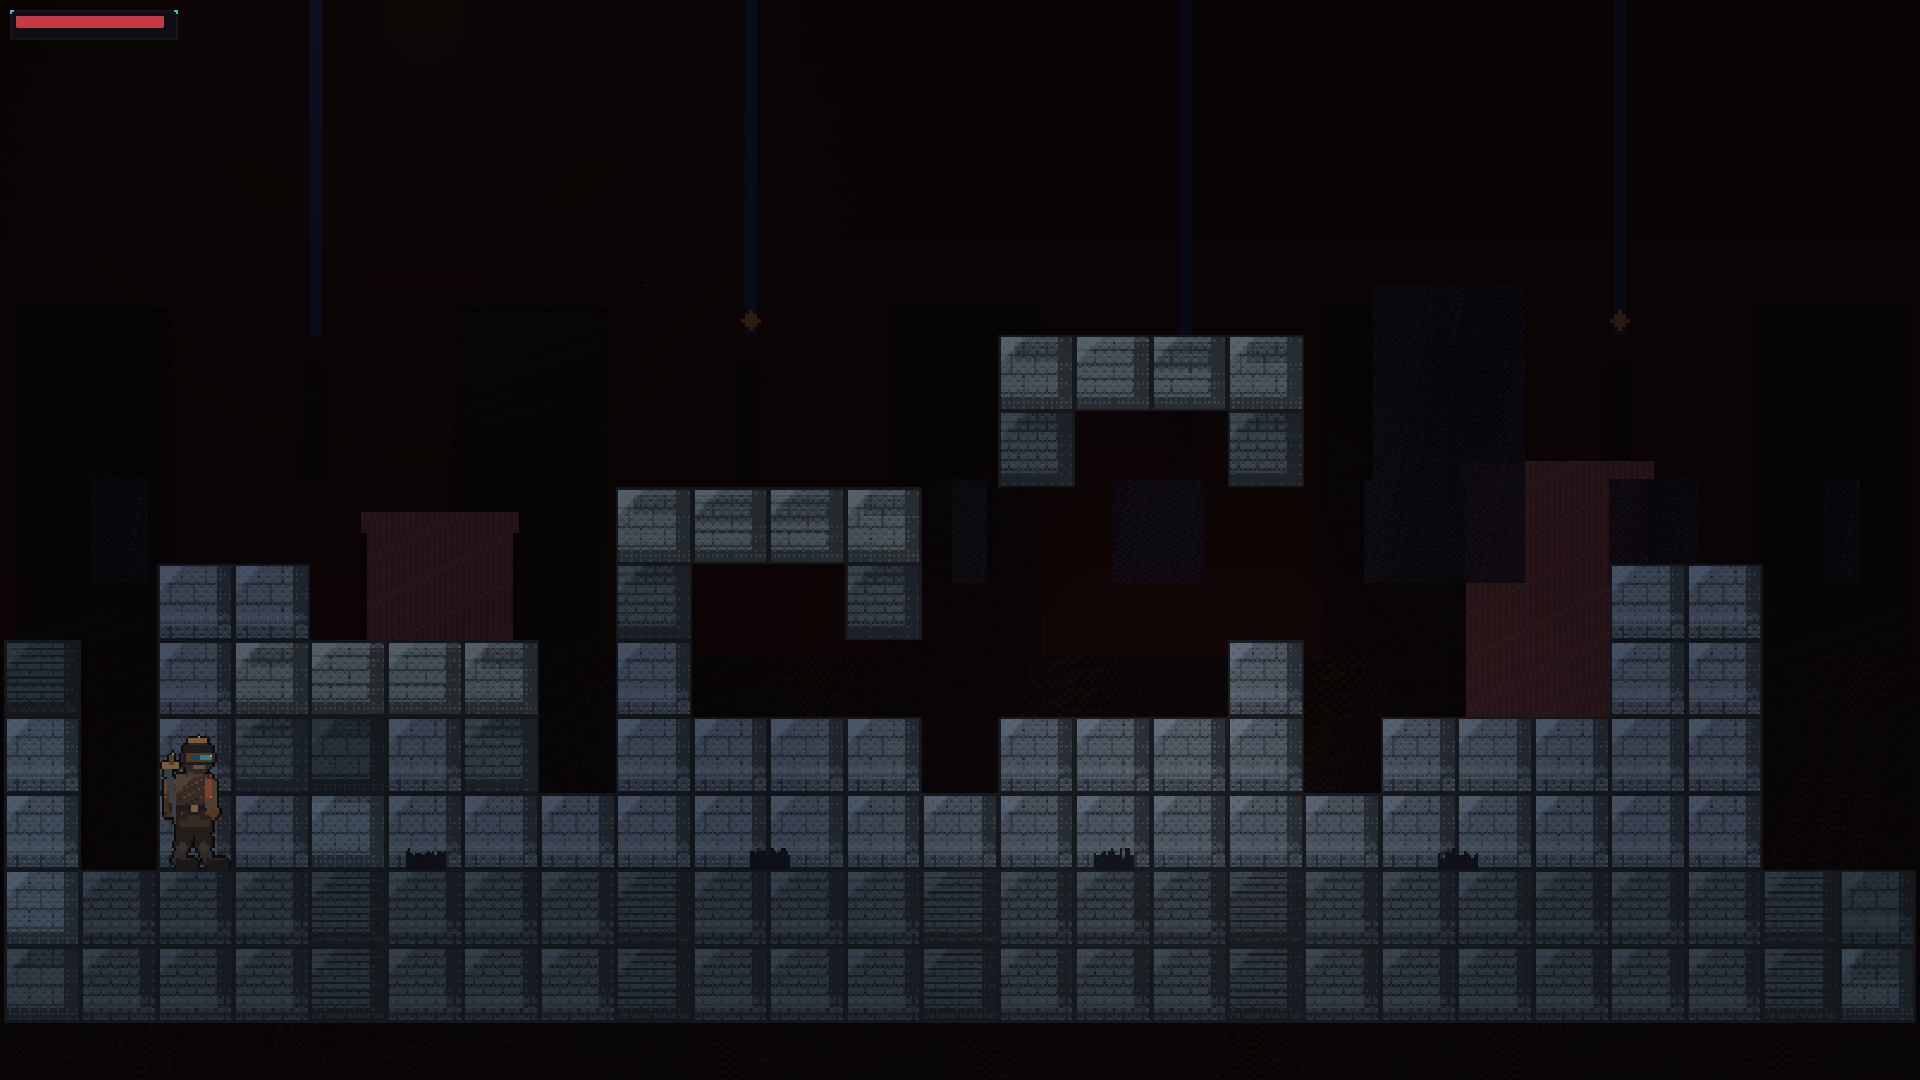
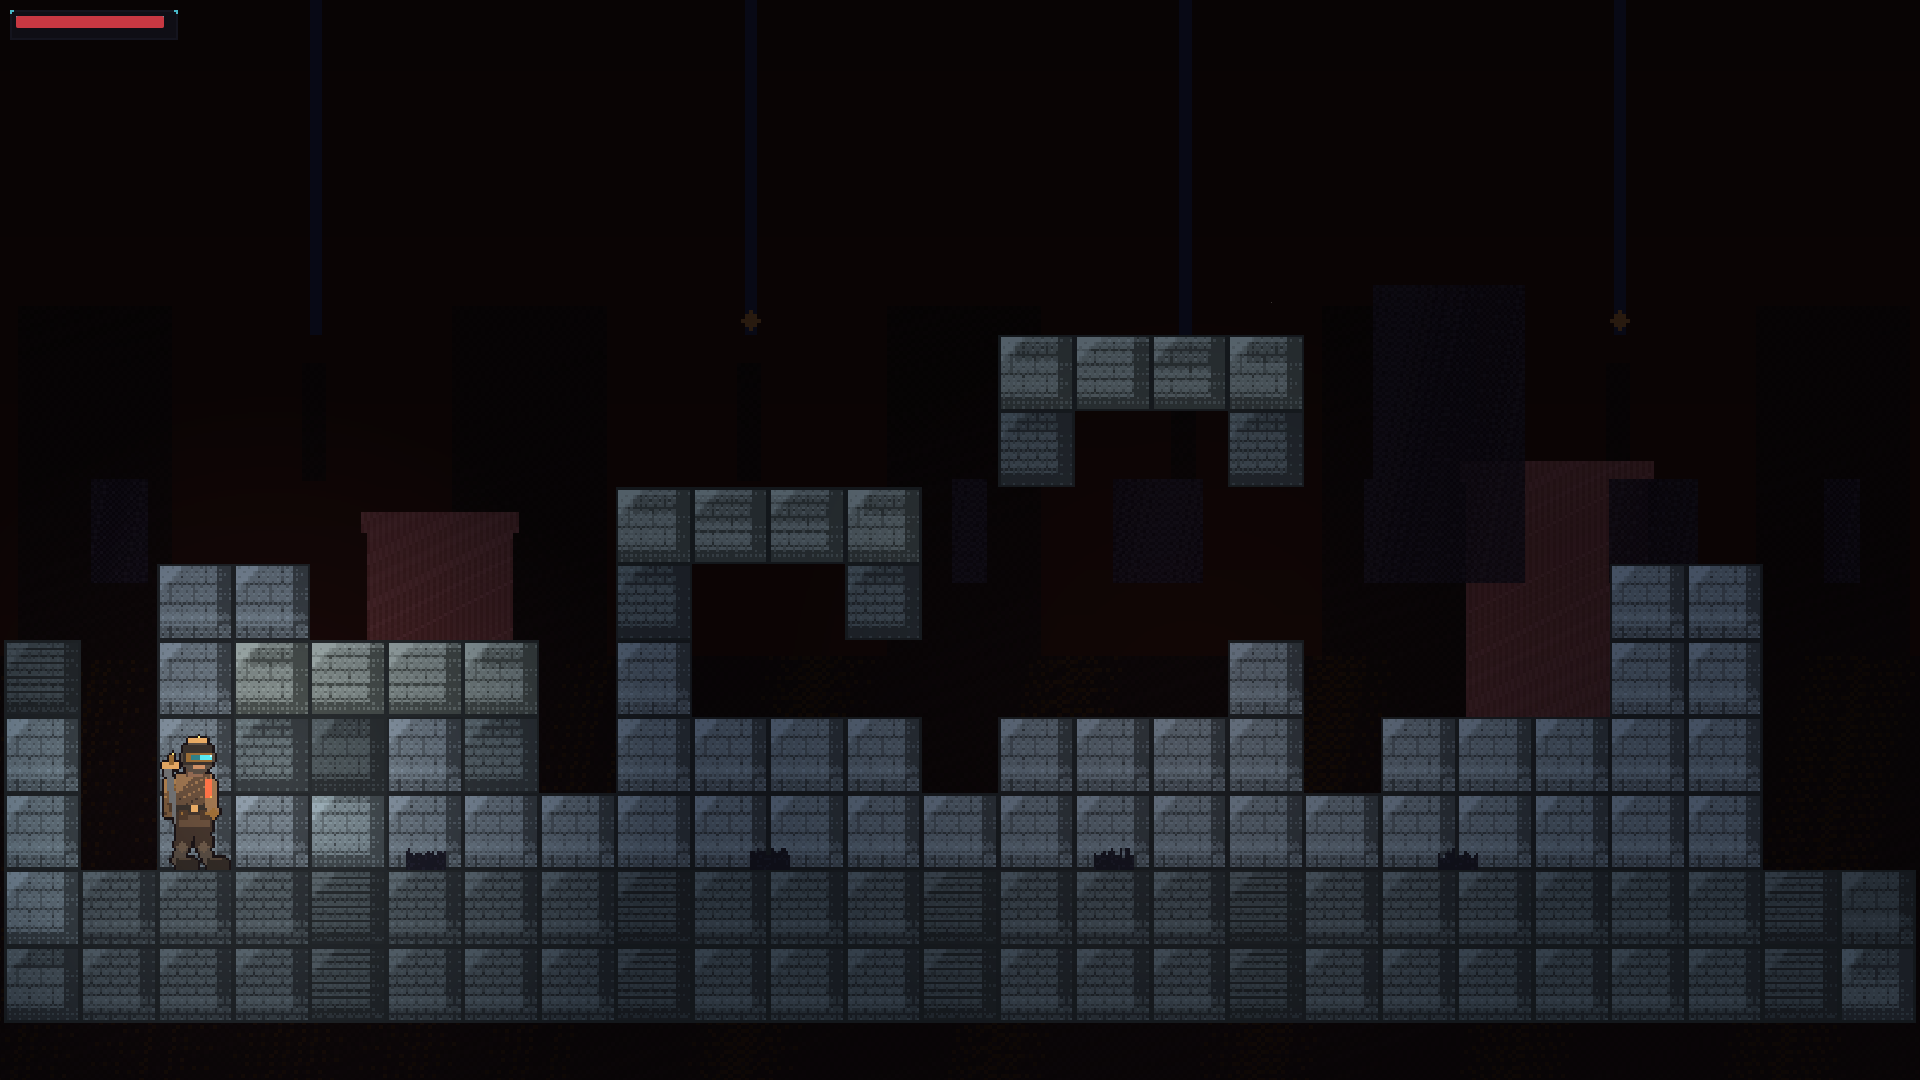
docs(review): recapture authored courier with spawn focal light
Spawn QA remains PASS 100 (occupancy ~0.36, lumaStdDev ~15.6). Shrine camera
stays 2.40 / 800x450 / 400,555. Playtest telemetry still completes rooms 000–009.
Visual slice stays unapproved.

Changed region(s): [[0.0, 0.5194, 0.2812, 0.9167]]

diff --git a/review-artifacts/room05/README.md b/review-artifacts/room05/README.md
@@ -40,7 +40,7 @@ Player is the Wanderer (visor, pack, sheathed blade). `npc_000` is a foundry ten
 |---|---|
 | Playtest | **8/8 PASS** (persona `victory_rusher`, 37997ms, rooms 000–009, `gameComplete: true`) |
 | Runtime smoke (windowed) | shrine still **visible** PASS; shrine telemetry `zoom=2.40 view=800x450 center=400,555` |
-| `gameplay_screenshot_qa` spawn | **PASS score 100** (occupancy ~0.36, lumaStdDev ~12.6) |
+| `gameplay_screenshot_qa` spawn | **PASS score 100** (occupancy ~0.36, lumaStdDev ~15.6, 72 colors) |
 | Shrine still through the same critic | score **100** informational (occupancy ~0.36, lumaStdDev ~7.4) |
 | `visualSliceApproved` | **false** — human Approve Visual Direction still required |
 
